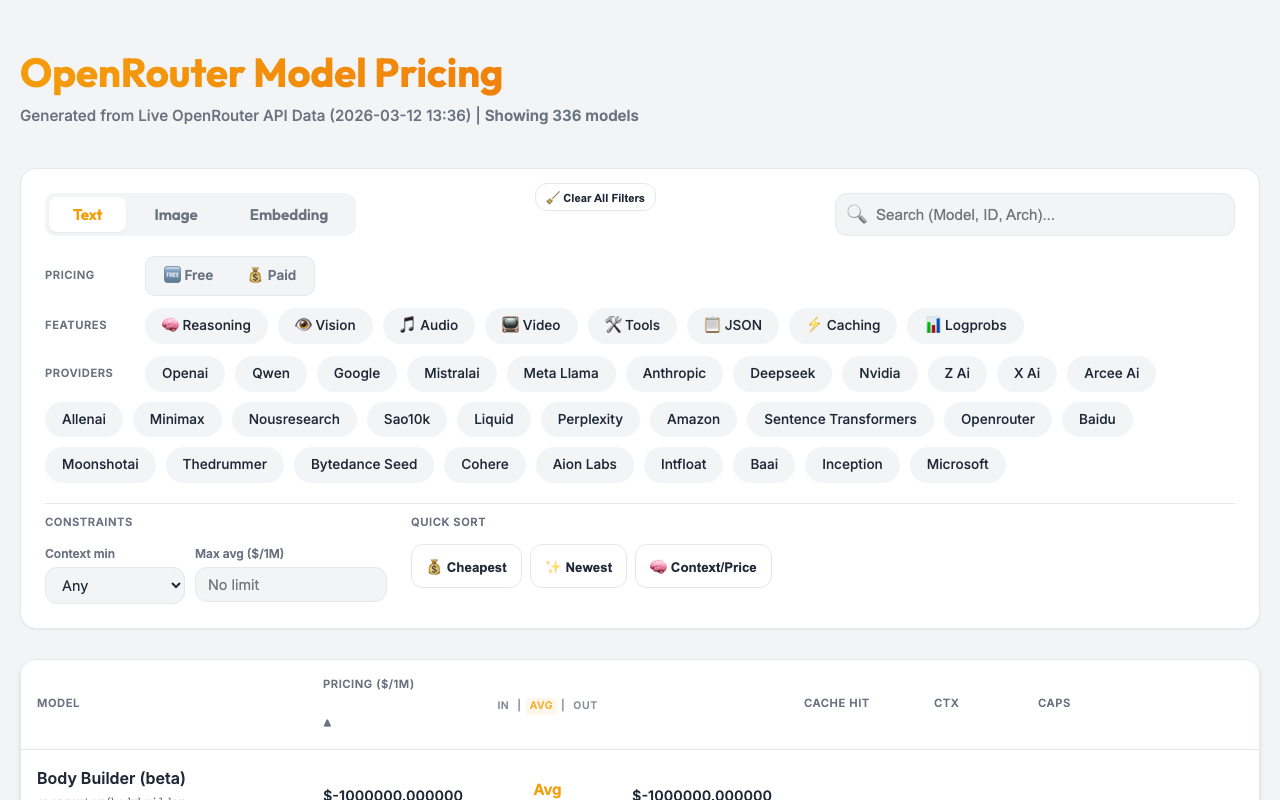
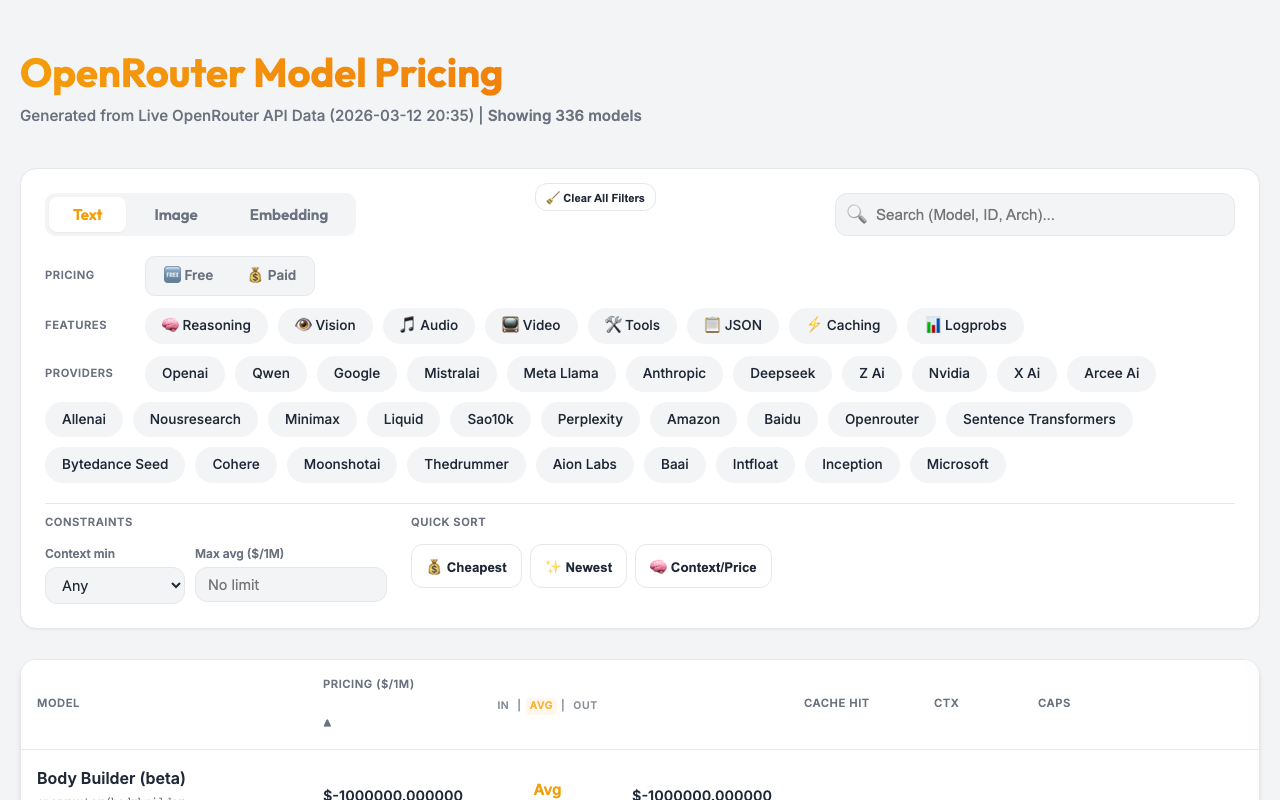
chore: automated pricing update (2026-03-12 20:35:13)
🔄 Changed Models (2): openrouter/healer-alpha, openrouter/hunter-alpha

diff --git a/docs/index.html b/docs/index.html
@@ -634,7 +634,7 @@
     <div class="container">
         <header>
             <h1>OpenRouter Model Pricing</h1>
-            <div class="meta">Generated from Live OpenRouter API Data (2026-03-12 13:36)</div>
+            <div class="meta">Generated from Live OpenRouter API Data (2026-03-12 20:35)</div>
         </header>
 
         <div class="controls">
@@ -729,7 +729,7 @@
       },
       "top_provider": {
         "context_length": 1048576,
-        "max_completion_tokens": 65536,
+        "max_completion_tokens": 32000,
         "is_moderated": false
       },
       "per_request_limits": null,
@@ -788,7 +788,7 @@
       },
       "top_provider": {
         "context_length": 262144,
-        "max_completion_tokens": 65536,
+        "max_completion_tokens": 32000,
         "is_moderated": false
       },
       "per_request_limits": null,
@@ -18610,7 +18610,7 @@
   ],
   "other": []
 };
-        window.providerOptions = ['openai', 'qwen', 'google', 'mistralai', 'meta-llama', 'anthropic', 'deepseek', 'nvidia', 'z-ai', 'x-ai', 'arcee-ai', 'allenai', 'minimax', 'nousresearch', 'sao10k', 'liquid', 'perplexity', 'amazon', 'sentence-transformers', 'openrouter', 'baidu', 'moonshotai', 'thedrummer', 'bytedance-seed', 'cohere', 'aion-labs', 'intfloat', 'baai', 'inception', 'microsoft', 'morph', 'thenlper', 'inflection', 'stepfun', 'relace', 'meituan', 'essentialai', 'bytedance', 'alibaba', 'kwaipilot', 'mancer', 'deepcogito', 'tencent', 'tngtech', 'nex-agi', 'undi95', 'alpindale', 'alfredpros', 'cognitivecomputations', 'anthracite-org', 'xiaomi', 'ibm-granite', 'eleutherai', 'writer', 'ai21', 'gryphe', 'prime-intellect', 'upstage', 'switchpoint'];
+        window.providerOptions = ['openai', 'qwen', 'google', 'mistralai', 'meta-llama', 'anthropic', 'deepseek', 'z-ai', 'nvidia', 'x-ai', 'arcee-ai', 'allenai', 'nousresearch', 'minimax', 'liquid', 'sao10k', 'perplexity', 'amazon', 'baidu', 'openrouter', 'sentence-transformers', 'bytedance-seed', 'cohere', 'moonshotai', 'thedrummer', 'aion-labs', 'baai', 'intfloat', 'inception', 'microsoft', 'relace', 'morph', 'inflection', 'stepfun', 'thenlper', 'ai21', 'ibm-granite', 'prime-intellect', 'tencent', 'undi95', 'eleutherai', 'tngtech', 'alibaba', 'meituan', 'alpindale', 'mancer', 'anthracite-org', 'deepcogito', 'xiaomi', 'essentialai', 'writer', 'alfredpros', 'gryphe', 'nex-agi', 'upstage', 'bytedance', 'cognitivecomputations', 'switchpoint', 'kwaipilot'];
         let currentTab = 'text';
         let sortKey = 'price_avg';
         let sortAsc = true;
